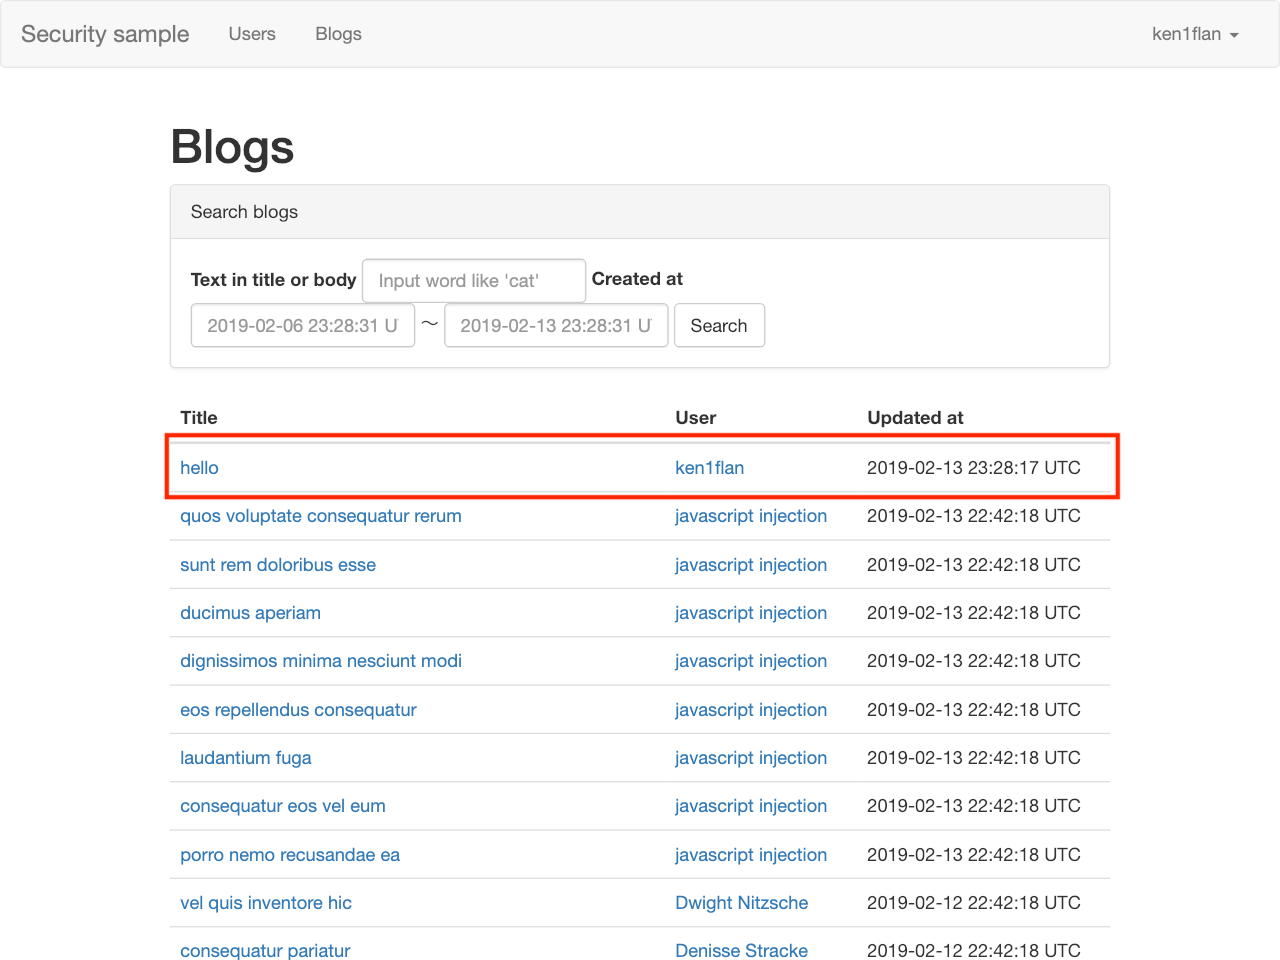
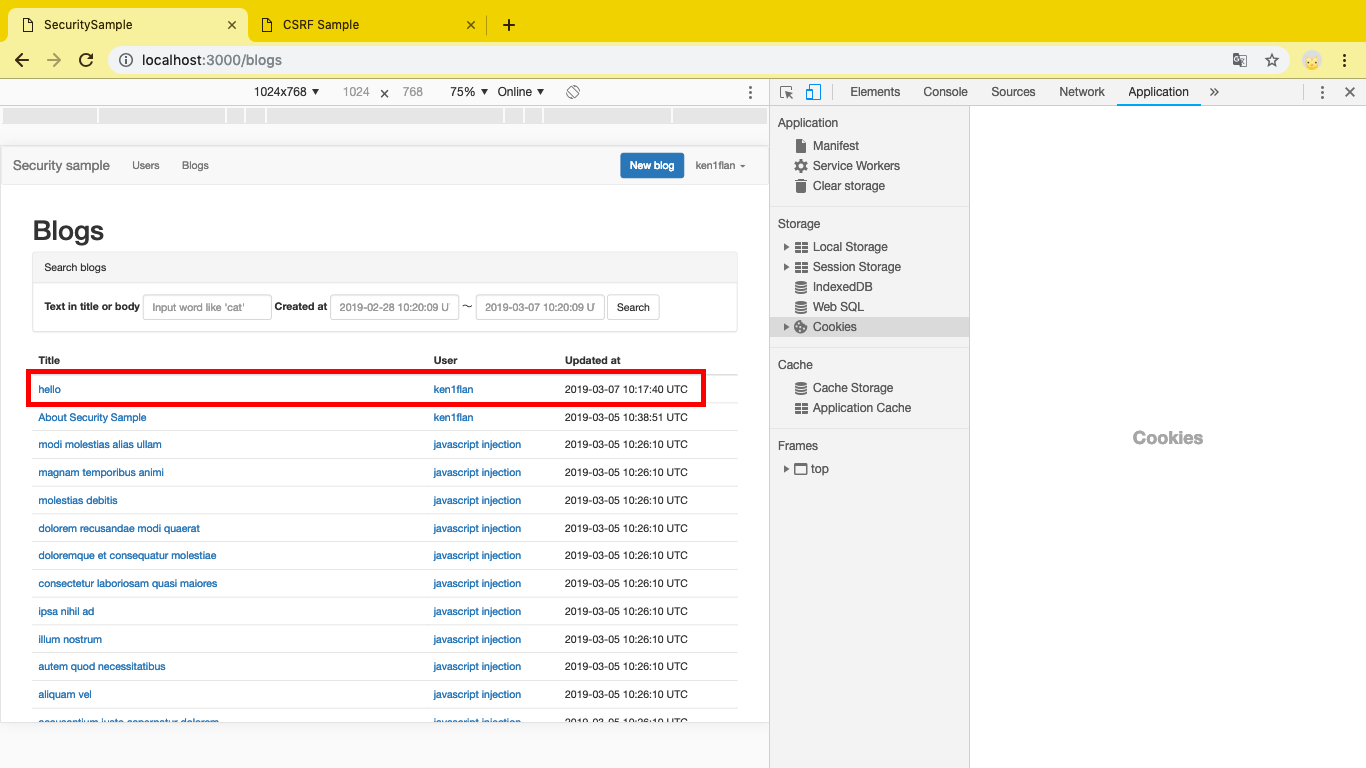
CSRFの画像を差し替え、文章を加筆修正した

diff --git a/draft/1_04_csrf.md b/draft/1_04_csrf.md
@@ -2,11 +2,13 @@
 
 名前が長くて、馴染みのない単語が並んでいるので、まずは実際に被害にあってみましょう。
 
-まず、自分のアカウントでサンプルアプリケーションにログインし、ブログの一覧を確認します。
+## 試し方
+
+自分のアカウントでサンプルアプリケーションにログインし、ブログの一覧を確認します。自アカウントのブログは1章のセットアップのときに登録したブログしかないはずです。
 
 ![操作前のブログ一覧](../images/1_04_csrf/blogs_before.png)
 
-外部のサイトにあるものと仮定して、次のファイルを開いてください。
+外部のサイトにあるものと仮定して、次のファイルを同じブラウザで開いてください。
 
 ```text
 outside/csrf/index.html
@@ -16,13 +18,12 @@ outside/csrf/index.html
 
 サンプルアプリケーションのブログの一覧を再度開き、内容を確認します。
 すると、自分のアカウントでブログが追加されています…。
-勝手に書き込まれた内容が、詐欺サイトや悪質な商品の販売ページへのリンク、政治的な主張だったりしたら、これを見たユーザー達は我々のサービスのことをどういうふうに感じるでしょう…。
 
 ![いつのまにかhelloという記事を投稿したことになっている](../images/1_04_csrf/blogs_after.png)
 
 ## 何をしたの？
 
-ソースを確認してみましょう。
+外部サイトのソース `outside/csrf/index.html` を確認してみましょう。
 
 ```html
 <!-- outside/csrf/index.html -->
@@ -47,7 +48,7 @@ outside/csrf/index.html
 `display: none`の`img`があり、その`src`にブログを作成するURLが書かれています。
 サンプルアプリケーションにログインしていたので、まんまとブログが投稿されてしまったのです。
 
-他にも「かわいいにゃんこ画像がいっぱいあるよ！」のような興味を惹くようなテキストにリンクとしたりも考えられます。
+他にも「かわいいにゃんこ画像がいっぱいあるよ！」のような魅力的なテキストのリンクなどにリンクを設置するなどの方法も考えられます。
 
 ## サンプルアプリケーションはどうなっている？
 
@@ -64,6 +65,13 @@ outside/csrf/index.html
   end
   :
 ```
+
+
+## クロスサイトリクエストフォージェリとは
+
+脆弱性によって他サイトからのアクセスで、今回のような意図していない投稿などのリクエストを処理してしまうことです。
+
+勝手に書き込まれた内容が、詐欺サイトや悪質な商品の販売ページへのリンク、政治的な主張だったりしたら、これを見たユーザー達は我々のサービスのことをどういうふうに感じるでしょう…。
 
 ## 直し方
 
